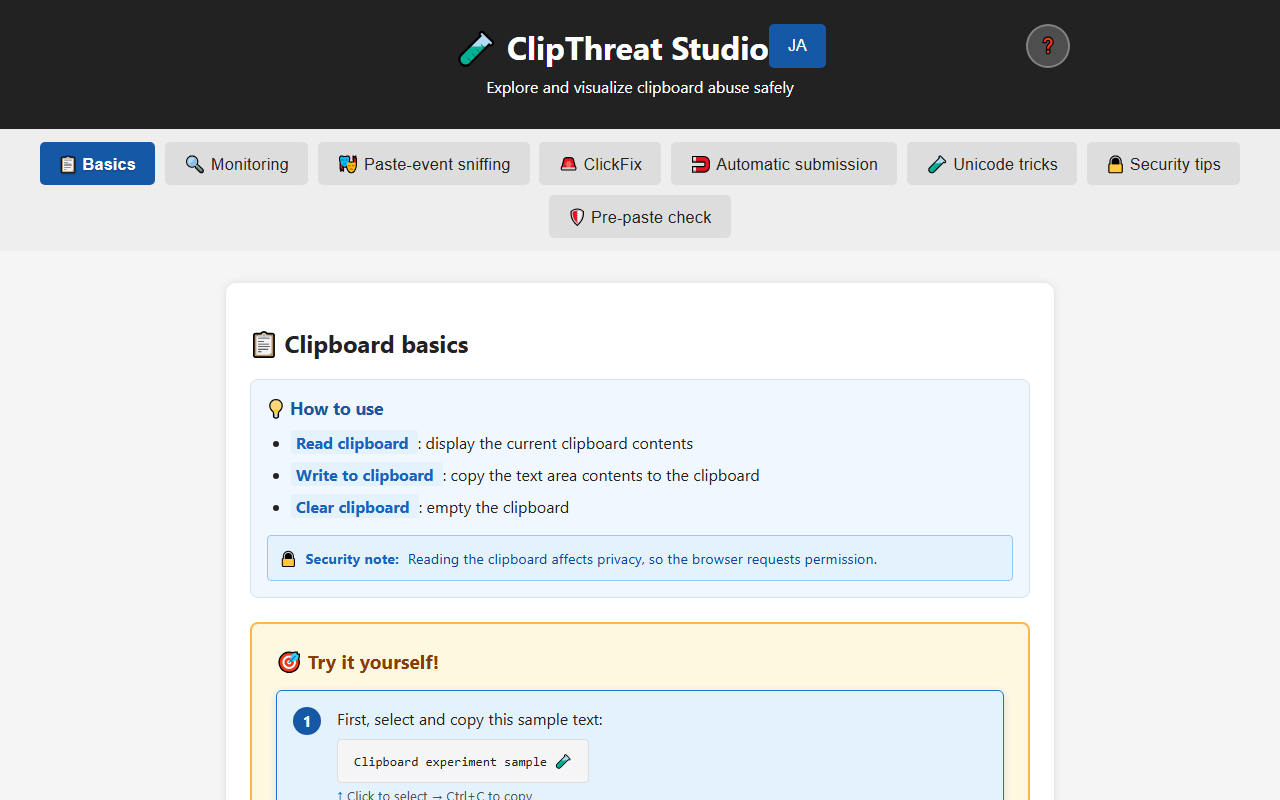
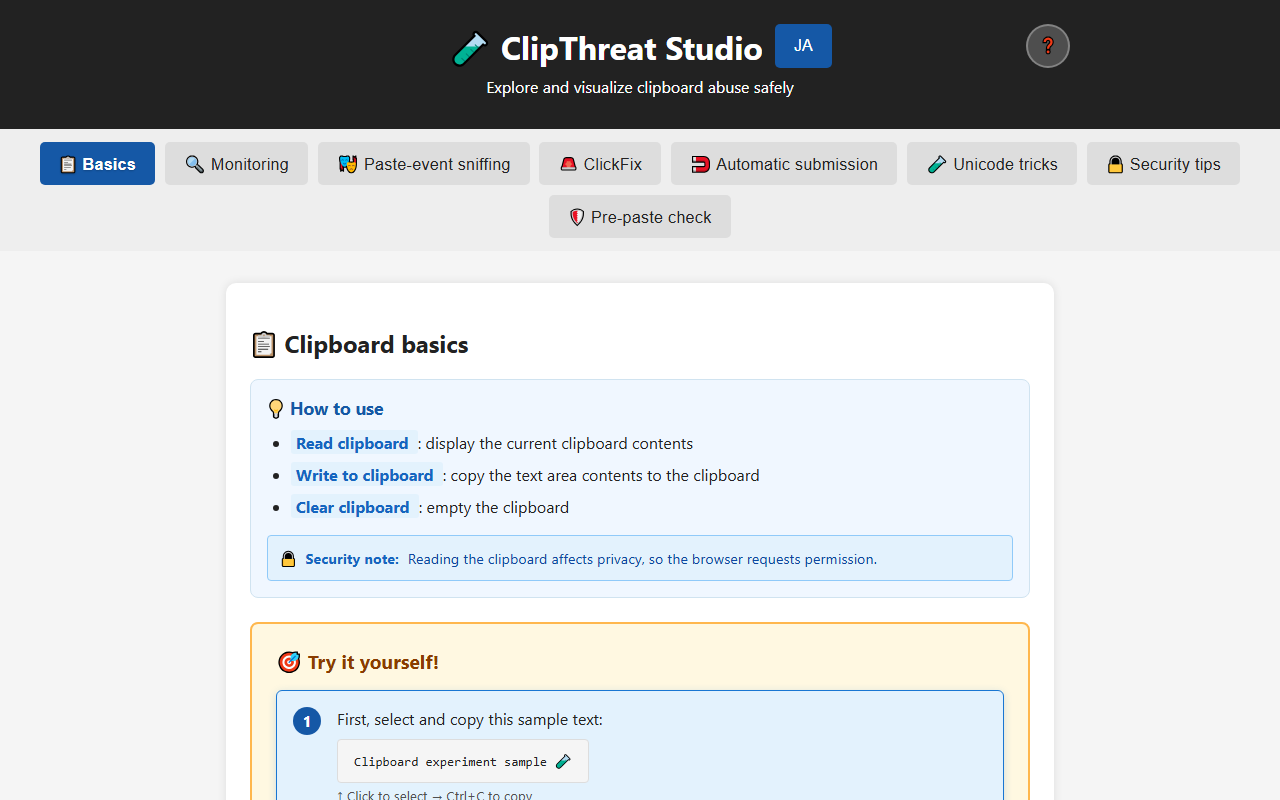
言語ボタンとタイトルのあいだに余白を入れる
English／JA ボタンがタイトル「ClipThreat Studio」に接していた。.header-title に gap: 0.75rem を足し、ボタンのフォーカスの枠（3px＋3px）がタイトルに重ならないようにした。幅601px以上で12px、600px以下は従来どおり縦並びで8px。
- テスト: ヘッダーの gap がフォーカスの枠の外側より広いこと（CSS を戻すと失敗することを確認）
- 日英の1枚目のスクリーンショットを撮り直した（ヘッダーが写るのはこの2枚だけ）

Changed region(s): [[0.3438, 0.0312, 0.6562, 0.0938]]

diff --git a/test/html.test.js b/test/html.test.js
@@ -33,3 +33,13 @@ test('eight accessible tabs, eleven keyboard accordions and a labelled dialog', 
   const ids = [...html.matchAll(/\bid="([^"]+)"/g)].map(m => m[1]);
   assert.equal(ids.length, new Set(ids).size);
 });
+
+test('language toggle keeps a gap from the title wider than its focus outline', () => {
+  const css = readFileSync(new URL('../style.css', import.meta.url), 'utf8');
+  const focus = css.match(/:focus-visible \{ outline: (\d+)px solid [^;]+; outline-offset: (\d+)px; \}/);
+  const outside = Number(focus[1]) + Number(focus[2]);
+  const gaps = [...css.matchAll(/\.header-title \{([^}]+)\}/g)].map(m => m[1].match(/gap:\s*([\d.]+)rem/));
+  assert.equal(gaps.length, 2, 'desktop and narrow-screen header rules');
+  for (const gap of gaps) assert.ok(gap && Number(gap[1]) * 16 > outside, `header gap must exceed ${outside}px`);
+  assert.match(html, /<h1>[^<]+<\/h1>\s*<button type="button" id="language-toggle"/);
+});

diff --git a/style.css b/style.css
@@ -37,6 +37,7 @@ header {
   display: flex;
   align-items: center;
   justify-content: center;
+  gap: 0.75rem;
   max-width: 860px;
   margin: 0 auto;
   position: relative;

diff --git a/README.en.md b/README.en.md
@@ -26,7 +26,7 @@ Its tabs cover reading, writing, paste monitoring, and ClickFix prompts, illustr
 
 > ![Initial clipboard basics screen](assets/en/screenshot.png)
 >
-> *Initial Basics tab in English (1280×800, 53,889 bytes)*
+> *Initial Basics tab in English (1280×800, 53,890 bytes)*
 
 > ![Safe ClickFix demonstration](assets/en/screenshot2.png)
 >

diff --git a/README.md b/README.md
@@ -64,7 +64,7 @@ hub: true
 
 > ![基本操作の初期画面](assets/screenshot.png)
 >
-> *基本操作タブの初期表示（1280×800、70,360バイト）*
+> *基本操作タブの初期表示（1280×800、70,353バイト）*
 
 > ![安全化したClickFixデモ](assets/screenshot2.png)
 >
